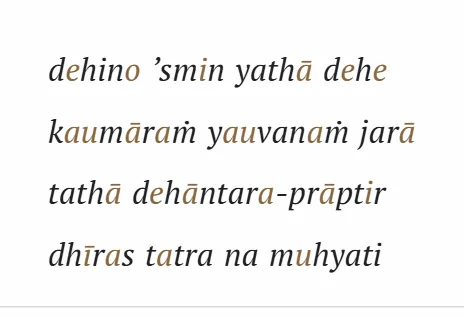
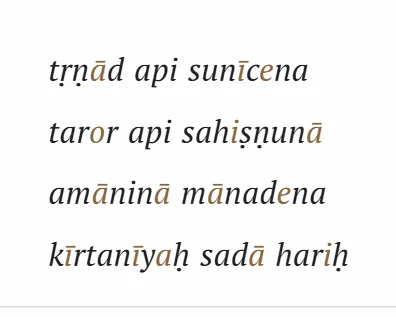
Vary verses across feature shots, fit AI shot to its frame, anchor offset
Each feature tile now shows its own verse (NoI 1, Siksastaka 3, Isopanisad 1,
BG 7.19, CC 1.1.1; editor and AI fill on SB 3.25.21). The cabinet AI shot is
cropped inside the panel border, contained tile shots get explicit caps, and
anchors land 20px below the header.

diff --git a/index.html b/index.html
@@ -1,4 +1,4 @@
-<!DOCTYPE html><html lang="ru" data-theme="light"><head><meta charset="utf-8"><meta name="viewport" content="width=device-width,initial-scale=1"><meta name="robots" content="noindex,nofollow"><title>Шлокамрита — макет главной</title><link rel="icon" type="image/png" sizes="48x48" href="assets/favicon-48.png"><script>(function(){var q=new URLSearchParams(location.search).get('theme'),s=null;try{s=localStorage.getItem('slokamrita-landing-theme')}catch(e){}var t=q==='dark'||q==='light'?q:s==='dark'||s==='light'?s:matchMedia('(prefers-color-scheme: dark)').matches?'dark':'light';document.documentElement.dataset.theme=t})();</script><link rel="stylesheet" href="page.css?v=6"></head>
+<!DOCTYPE html><html lang="ru" data-theme="light"><head><meta charset="utf-8"><meta name="viewport" content="width=device-width,initial-scale=1"><meta name="robots" content="noindex,nofollow"><title>Шлокамрита — макет главной</title><link rel="icon" type="image/png" sizes="48x48" href="assets/favicon-48.png"><script>(function(){var q=new URLSearchParams(location.search).get('theme'),s=null;try{s=localStorage.getItem('slokamrita-landing-theme')}catch(e){}var t=q==='dark'||q==='light'?q:s==='dark'||s==='light'?s:matchMedia('(prefers-color-scheme: dark)').matches?'dark':'light';document.documentElement.dataset.theme=t})();</script><link rel="stylesheet" href="page.css?v=7"></head>
 <body>
 <header class="site-header"><div class="wrap header-row">
   <a href="#top" aria-label="Шлокамрита, главная"><img class="brand light" src="assets/brand-light.svg" alt="Шлокамрита"><img class="brand dark" src="assets/brand-dark.svg" alt="Шлокамрита"></a>
@@ -62,7 +62,7 @@
       <li class="tile"><a href="#today" data-demo="guru"><figure class="shot shot-contain"><img class="light" src="assets/app/guru-ru-light.webp" alt="Стих с выделенными гуру-слогами" loading="lazy"><img class="dark" src="assets/app/guru-ru-dark.webp" alt="" loading="lazy"></figure><div class="tile-copy"><h3>Гуру-слоги</h3><p>Тяжёлые слоги выделены цветом. Видно ритм стиха, легче читать нараспев.</p><span class="tile-link"><span>Посмотреть</span><span class="arr" aria-hidden="true"></span></span></div></a></li>
       <li class="tile"><a href="#today" data-demo="audio"><figure class="shot shot-contain"><img class="light" src="assets/app/audio-ru-light.webp" alt="Запись рецитации в Шлокамрите" loading="lazy"><img class="dark" src="assets/app/audio-ru-dark.webp" alt="" loading="lazy"></figure><div class="tile-copy"><h3>Аудиозаписи</h3><p>Рецитация преданных: слушайте стих и&nbsp;повторяйте за&nbsp;чтецом.</p><span class="tile-link"><span>Послушать</span><span class="arr" aria-hidden="true"></span></span></div></a></li>
       <li class="tile"><a href="#today" data-demo="interlinear"><figure class="shot"><img class="light" src="assets/app/interlinear-ru-light.webp" alt="Надстрочный перевод над санскритом" loading="lazy"><img class="dark" src="assets/app/interlinear-ru-dark.webp" alt="" loading="lazy"></figure><div class="tile-copy"><h3>Надстрочный перевод</h3><p>Значение каждого слова прямо над&nbsp;санскритом. Отключите его, чтобы проверить себя.</p><span class="tile-link"><span>Включить</span><span class="arr" aria-hidden="true"></span></span></div></a></li>
-      <li class="tile"><a href="#today" data-demo="slides"><figure class="shot"><img class="light" src="assets/app/slides-ru-light.webp" alt="Слайд стиха" loading="lazy"><img class="dark" src="assets/app/slides-ru-dark.webp" alt="" loading="lazy"></figure><div class="tile-copy"><h3>Показ слайдов</h3><p>Стих на&nbsp;проекторе или&nbsp;общем экране: санскрит, переводы или&nbsp;всё вместе.</p><span class="tile-link"><span>Открыть слайд</span><span class="arr" aria-hidden="true"></span></span></div></a></li>
+      <li class="tile"><a href="#today" data-demo="slides"><figure class="shot"><img class="light" src="assets/app/slides-tile-ru-light.webp" alt="Слайд стиха" loading="lazy"><img class="dark" src="assets/app/slides-tile-ru-dark.webp" alt="" loading="lazy"></figure><div class="tile-copy"><h3>Показ слайдов</h3><p>Стих на&nbsp;проекторе или&nbsp;общем экране: санскрит, переводы или&nbsp;всё вместе.</p><span class="tile-link"><span>Открыть слайд</span><span class="arr" aria-hidden="true"></span></span></div></a></li>
       <li class="tile"><a href="https://slokamrita.com/ru/?group=group"><figure class="shot"><img class="light" src="assets/app/collections-ru-light.webp" alt="Общие подборки шлок" loading="lazy"><img class="dark" src="assets/app/collections-ru-dark.webp" alt="" loading="lazy"></figure><div class="tile-copy"><h3>Общие подборки</h3><p>Стихи по&nbsp;темам: от&nbsp;«Абсолютной Истины» до&nbsp;пранам. Печать, слайды и&nbsp;аудио всей подборки.</p><span class="tile-link"><span>Все&nbsp;подборки</span><span class="arr ext" aria-hidden="true"></span></span></div></a></li>
       <li class="tile"><a href="#cabinet"><figure class="shot"><img class="light" src="assets/app/editor-ru-light.webp" alt="Редактор своего стиха" loading="lazy"><img class="dark" src="assets/app/editor-ru-dark.webp" alt="" loading="lazy"></figure><div class="tile-copy"><h3>Свои шлоки</h3><p>Добавляйте стихи из&nbsp;общих разделов в&nbsp;свои подборки или&nbsp;вносите собственную шлоку.</p><span class="tile-link"><span>Подробнее</span><span class="arr down" aria-hidden="true"></span></span></div></a></li>
       <li class="tile"><a href="#cabinet"><figure class="shot"><img class="light" src="assets/app/ai-tile-ru-light.webp" alt="Заполнение стиха с помощью ИИ" loading="lazy"><img class="dark" src="assets/app/ai-tile-ru-dark.webp" alt="" loading="lazy"></figure><div class="tile-copy"><h3>Помощь ИИ</h3><p>Если стих есть в&nbsp;Ведараме, ИИ перенесёт его&nbsp;и&nbsp;заполнит поля. Вы&nbsp;проверяете текст перед сохранением.</p><span class="tile-link"><span>Как&nbsp;это&nbsp;работает</span><span class="arr down" aria-hidden="true"></span></span></div></a></li>
@@ -80,7 +80,7 @@
   </div></section>
   <section class="cabinet wrap" id="cabinet" aria-labelledby="cabinet-title">
     <div class="feature-grid"><div class="feature-copy"><p class="eyebrow">МОИ ШЛОКИ</p><h2 id="cabinet-title">Свои шлоки и&nbsp;подборки</h2><p class="cabinet-intro">Готовите встречу или&nbsp;занятие? Соберите нужные стихи в&nbsp;свою подборку.</p><ol class="steps"><li><h3>Возьмите стих из&nbsp;общих разделов</h3><p>Или&nbsp;внесите свою шлоку: строки, надстрочный и&nbsp;пословный перевод, источник.</p></li><li><h3>Доверьте рутину ИИ</h3><p>Если стих есть в&nbsp;Ведараме, ИИ быстро перенесёт текст и&nbsp;заполнит поля. Перед сохранением вы&nbsp;проверяете результат.</p></li><li><h3>Покажите подборку</h3><p>Откройте её&nbsp;как&nbsp;слайд-шоу на&nbsp;встрече или&nbsp;повторяйте стихи в&nbsp;приложении.</p></li></ol><a class="button primary" href="https://slokamrita.com/ru/my-verses/"><span>Открыть «Мои шлоки»</span><span class="arr ext" aria-hidden="true"></span></a></div>
-    <figure class="product-shot cabinet-shot"><img class="light" src="assets/app/ai-ru-light.webp" alt="ИИ нашёл «Бхагавад-гиту» 2.13 в Ведараме и подготовил поля стиха" loading="lazy"><img class="dark" src="assets/app/ai-ru-dark.webp" alt="" loading="lazy"><figcaption>ИИ нашёл стих в&nbsp;Ведараме: источник подтверждён</figcaption></figure></div>
+    <figure class="product-shot cabinet-shot"><img class="light" src="assets/app/ai-ru-light.webp" alt="ИИ нашёл «Шримад-Бхагаватам» 3.25.21 в Ведараме и подготовил поля стиха" loading="lazy"><img class="dark" src="assets/app/ai-ru-dark.webp" alt="" loading="lazy"><figcaption>ИИ нашёл стих в&nbsp;Ведараме: источник подтверждён</figcaption></figure></div>
   </section>
   <section class="lecture" id="lecture" aria-labelledby="lecture-title"><div class="wrap feature-grid">
     <figure class="product-shot"><img src="assets/lecture-slide.webp" alt="Слайд с санскритом и переводами в веб-приложении" loading="lazy"><figcaption>Слайд «Бхагавад-гиты» 2.41</figcaption></figure>
@@ -106,6 +106,6 @@
   <nav class="footer-legal" aria-label="Правовая информация"><a href="https://slokamrita.com/ru/terms/">Условия использования</a><span aria-hidden="true">•</span><a href="https://slokamrita.com/ru/privacy/">Политика конфиденциальности</a></nav>
   <p class="footer-copyright">© Sri Rupa Seva Kunj</p>
 </div></footer>
-<script src="page.js?v=6"></script>
+<script src="page.js?v=7"></script>
 
 </body></html>

diff --git a/en/index.html b/en/index.html
@@ -1,4 +1,4 @@
-<!DOCTYPE html><html lang="en" data-theme="light"><head><meta charset="utf-8"><meta name="viewport" content="width=device-width,initial-scale=1"><meta name="robots" content="noindex,nofollow"><title>Slokamrita — homepage preview</title><link rel="icon" type="image/png" sizes="48x48" href="../assets/favicon-48.png"><script>(function(){var q=new URLSearchParams(location.search).get('theme'),s=null;try{s=localStorage.getItem('slokamrita-landing-theme')}catch(e){}var t=q==='dark'||q==='light'?q:s==='dark'||s==='light'?s:matchMedia('(prefers-color-scheme: dark)').matches?'dark':'light';document.documentElement.dataset.theme=t})();</script><link rel="stylesheet" href="../page.css?v=6"></head>
+<!DOCTYPE html><html lang="en" data-theme="light"><head><meta charset="utf-8"><meta name="viewport" content="width=device-width,initial-scale=1"><meta name="robots" content="noindex,nofollow"><title>Slokamrita — homepage preview</title><link rel="icon" type="image/png" sizes="48x48" href="../assets/favicon-48.png"><script>(function(){var q=new URLSearchParams(location.search).get('theme'),s=null;try{s=localStorage.getItem('slokamrita-landing-theme')}catch(e){}var t=q==='dark'||q==='light'?q:s==='dark'||s==='light'?s:matchMedia('(prefers-color-scheme: dark)').matches?'dark':'light';document.documentElement.dataset.theme=t})();</script><link rel="stylesheet" href="../page.css?v=7"></head>
 <body>
 <header class="site-header"><div class="wrap header-row">
   <a href="#top" aria-label="Slokamrita homepage"><img class="brand light" src="../assets/brand-light.svg" alt="Slokamrita"><img class="brand dark" src="../assets/brand-dark.svg" alt="Slokamrita"></a>
@@ -62,7 +62,7 @@
       <li class="tile"><a href="#today" data-demo="guru"><figure class="shot shot-contain"><img class="light" src="../assets/app/guru-en-light.webp" alt="Verse with guru syllables highlighted" loading="lazy"><img class="dark" src="../assets/app/guru-en-dark.webp" alt="" loading="lazy"></figure><div class="tile-copy"><h3>Guru syllables</h3><p>Heavy syllables are highlighted, so you can see the rhythm and chant more easily.</p><span class="tile-link"><span>Take a look</span><span class="arr" aria-hidden="true"></span></span></div></a></li>
       <li class="tile"><a href="#today" data-demo="audio"><figure class="shot shot-contain"><img class="light" src="../assets/app/audio-en-light.webp" alt="Recitation recording in Slokamrita" loading="lazy"><img class="dark" src="../assets/app/audio-en-dark.webp" alt="" loading="lazy"></figure><div class="tile-copy"><h3>Recordings</h3><p>Recitations by devotees: listen to the verse and repeat after the reciter.</p><span class="tile-link"><span>Listen</span><span class="arr" aria-hidden="true"></span></span></div></a></li>
       <li class="tile"><a href="#today" data-demo="interlinear"><figure class="shot"><img class="light" src="../assets/app/interlinear-en-light.webp" alt="Interlinear translation above the Sanskrit" loading="lazy"><img class="dark" src="../assets/app/interlinear-en-dark.webp" alt="" loading="lazy"></figure><div class="tile-copy"><h3>Interlinear translation</h3><p>The meaning of each word right above the Sanskrit. Turn it off to test yourself.</p><span class="tile-link"><span>Turn it on</span><span class="arr" aria-hidden="true"></span></span></div></a></li>
-      <li class="tile"><a href="#today" data-demo="slides"><figure class="shot"><img class="light" src="../assets/app/slides-en-light.webp" alt="Verse slide" loading="lazy"><img class="dark" src="../assets/app/slides-en-dark.webp" alt="" loading="lazy"></figure><div class="tile-copy"><h3>Slideshows</h3><p>A verse on a projector or shared screen: Sanskrit, translations or both.</p><span class="tile-link"><span>Open the slide</span><span class="arr" aria-hidden="true"></span></span></div></a></li>
+      <li class="tile"><a href="#today" data-demo="slides"><figure class="shot"><img class="light" src="../assets/app/slides-tile-en-light.webp" alt="Verse slide" loading="lazy"><img class="dark" src="../assets/app/slides-tile-en-dark.webp" alt="" loading="lazy"></figure><div class="tile-copy"><h3>Slideshows</h3><p>A verse on a projector or shared screen: Sanskrit, translations or both.</p><span class="tile-link"><span>Open the slide</span><span class="arr" aria-hidden="true"></span></span></div></a></li>
       <li class="tile"><a href="https://slokamrita.com/en/?group=group"><figure class="shot"><img class="light" src="../assets/app/collections-en-light.webp" alt="Shared verse collections" loading="lazy"><img class="dark" src="../assets/app/collections-en-dark.webp" alt="" loading="lazy"></figure><div class="tile-copy"><h3>Shared collections</h3><p>Verses by topic, from the Absolute Truth to praṇāmas, with printing, slides and audio for the whole collection.</p><span class="tile-link"><span>All collections</span><span class="arr ext" aria-hidden="true"></span></span></div></a></li>
       <li class="tile"><a href="#cabinet"><figure class="shot"><img class="light" src="../assets/app/editor-en-light.webp" alt="Personal verse editor" loading="lazy"><img class="dark" src="../assets/app/editor-en-dark.webp" alt="" loading="lazy"></figure><div class="tile-copy"><h3>Your own verses</h3><p>Add verses from the shared sections to your collections or enter your own verse.</p><span class="tile-link"><span>Learn more</span><span class="arr down" aria-hidden="true"></span></span></div></a></li>
       <li class="tile"><a href="#cabinet"><figure class="shot"><img class="light" src="../assets/app/ai-tile-en-light.webp" alt="Filling in a verse with AI" loading="lazy"><img class="dark" src="../assets/app/ai-tile-en-dark.webp" alt="" loading="lazy"></figure><div class="tile-copy"><h3>AI assistance</h3><p>If the verse is in Vedarama, AI brings it over and fills in the fields. You review the text before saving.</p><span class="tile-link"><span>How it works</span><span class="arr down" aria-hidden="true"></span></span></div></a></li>
@@ -80,7 +80,7 @@
   </div></section>
   <section class="cabinet wrap" id="cabinet" aria-labelledby="cabinet-title">
     <div class="feature-grid"><div class="feature-copy"><p class="eyebrow">MY VERSES</p><h2 id="cabinet-title">Your own verses and collections</h2><p class="cabinet-intro">Preparing a meeting or a class? Gather the verses you need into your own collection.</p><ol class="steps"><li><h3>Take a verse from the shared sections</h3><p>Or enter your own: lines, interlinear and word-by-word translation, source.</p></li><li><h3>Let AI do the routine</h3><p>If the verse is in Vedarama, AI quickly brings the text over and fills in the fields. You review the result before saving.</p></li><li><h3>Present the collection</h3><p>Open it as a slideshow at a meeting, or review the verses in the app.</p></li></ol><a class="button primary" href="https://slokamrita.com/en/my-verses/"><span>Open My shlokas</span><span class="arr ext" aria-hidden="true"></span></a></div>
-    <figure class="product-shot cabinet-shot"><img class="light" src="../assets/app/ai-en-light.webp" alt="AI found Bhagavad-gita 2.13 in Vedarama and prepared the verse fields" loading="lazy"><img class="dark" src="../assets/app/ai-en-dark.webp" alt="" loading="lazy"><figcaption>AI found the verse in Vedarama: source confirmed</figcaption></figure></div>
+    <figure class="product-shot cabinet-shot"><img class="light" src="../assets/app/ai-en-light.webp" alt="AI found Srimad-Bhagavatam 3.25.21 in Vedarama and prepared the verse fields" loading="lazy"><img class="dark" src="../assets/app/ai-en-dark.webp" alt="" loading="lazy"><figcaption>AI found the verse in Vedarama: source confirmed</figcaption></figure></div>
   </section>
   <section class="lecture" id="lecture" aria-labelledby="lecture-title"><div class="wrap feature-grid">
     <figure class="product-shot"><img src="../assets/lecture-slide.webp" alt="A web app slide with Sanskrit and translations" loading="lazy"><figcaption>A Bhagavad-gītā 2.41 slide (Russian interface)</figcaption></figure>
@@ -106,6 +106,6 @@
   <nav class="footer-legal" aria-label="Legal information"><a href="https://slokamrita.com/en/terms/">Terms of service</a><span aria-hidden="true">•</span><a href="https://slokamrita.com/en/privacy/">Privacy policy</a></nav>
   <p class="footer-copyright">© Sri Rupa Seva Kunj</p>
 </div></footer>
-<script src="../page.js?v=6"></script>
+<script src="../page.js?v=7"></script>
 
 </body></html>

diff --git a/page.css b/page.css
@@ -15,7 +15,7 @@
 
 *{box-sizing:border-box;letter-spacing:0}
 [hidden]{display:none!important}
-html{scroll-behavior:smooth;scrollbar-gutter:stable}
+html{scroll-behavior:smooth;scrollbar-gutter:stable;scroll-padding-top:20px}
 body{margin:0;color:var(--ink);background:var(--page);font:17px/1.56 PT,Arial,sans-serif;transition:background-color .4s var(--ease),color .4s var(--ease)}
 h1,h2,h3,p,figure,blockquote,dl,dd,ol,ul{margin:0}
 ol,ul{padding:0;list-style:none}
@@ -418,3 +418,10 @@ html:not([data-theme=dark]) [data-word-links=on] .word-link-source.word-link-act
 .shot-contain{display:grid;place-items:center;padding:18px 22px}
 .shot-contain img{width:auto;height:auto;max-width:100%;max-height:100%;object-fit:contain;border-radius:6px}
 .quote-mark{height:56px;font-size:110px;line-height:.9}
+/* Contained shots: an explicit cap, since max-height:100% does not resolve inside the grid cell. */
+.shot-contain{padding:18px 22px 22px}
+.shot-contain img{max-height:calc(230px - 40px)}
+.tile-wide .shot{height:340px}
+.tile-wide .shot-contain img{max-height:calc(340px - 40px)}
+.shot-contain::after{display:none}
+@media(max-width:760px){.tile-wide .shot,.shot{height:200px}.shot-contain img,.tile-wide .shot-contain img{max-height:160px}}
